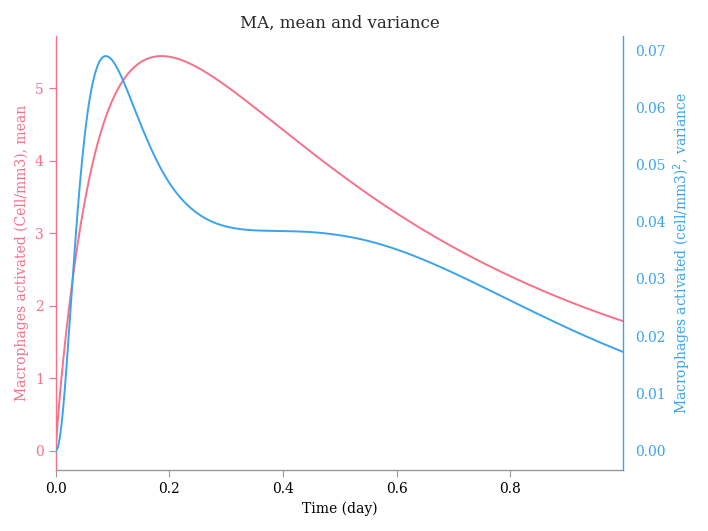
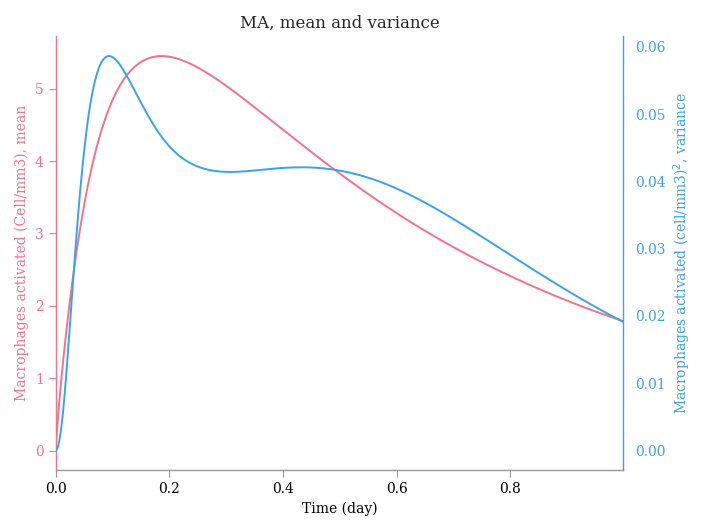
atualizando numero de amostras para 1024

diff --git a/src/main_uq.py b/src/main_uq.py
@@ -5,7 +5,7 @@ import uncertainpy as un
 import chaospy as cp
 
 
-def COR(ktc,kmtc, kmct, kcd, klt, klt6, cmax, nM10, nTNF10, nMTNF, hM10, hTNF10, hMTNF, k_6, k_6m, k_8, k_8m, k_10, k_10m, k_TNF, k_TNFM, k_MTNF, q_IL6, q_IL8, q_TNF, m_A, MR_max, k_MA, k_MR):
+def A(ktc,kmtc, kmct, kcd, klt, klt6, cmax, nM10, nTNF10, nMTNF, hM10, hTNF10, hMTNF, k_6, k_6m, k_8, k_8m, k_10, k_10m, k_TNF, k_TNFM, k_MTNF, q_IL6, q_IL8, q_TNF, m_A, MR_max, k_MA, k_MR):
   simulation = 'F'
 
   cortisol_parameters = [ktc, kmtc, kmct, kcd, klt, klt6, cmax]
@@ -16,7 +16,7 @@ def COR(ktc,kmtc, kmct, kcd, klt, klt6, cmax, nM10, nTNF10, nMTNF, hM10, hTNF10,
                                       quintela_parameters, cortisol_exp=2.32)
   [t_wcsa, outputs_wcsa] = output
   [out_A, out_MA, out_MR, out_IL10, out_IL6, out_IL8, out_TNF, out_COR] = outputs_wcsa
-  return t_wcsa, out_COR
+  return t_wcsa, out_A
 
 
 
@@ -59,7 +59,7 @@ if __name__ == "__main__":
     k_MR = cp.Uniform(6*0.9, 6*1.1)
 
     # Create a model from the function and add labels
-    model = un.Model(COR, labels=["Time (day)", "Cortisol (pg/mL)"])
+    model = un.Model(A, labels=["Time (day)", "S. aureus Bacteria (Cell/mm3)"])
 
     # Define the parameters dictionary
     parameters = {
@@ -101,7 +101,7 @@ if __name__ == "__main__":
     # Perform the uncertainty quantification,
     # which automatically use the Rosenblatt transformation
     # We set the seed to easier be able to reproduce the result
-    data = UQ.quantify(seed=42, plot="condensed_no_sensitivity", nr_mc_samples=100, method="mc")#polynomial_order=3
+    data = UQ.quantify(seed=42, plot="condensed_no_sensitivity", nr_mc_samples=1024, method="mc")#polynomial_order=3
     
     end = time.time()
     print(f"Time: {int(end - start)}s" )
